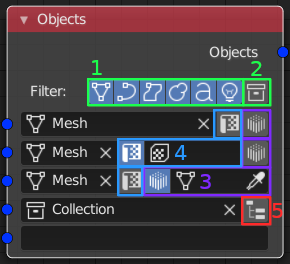
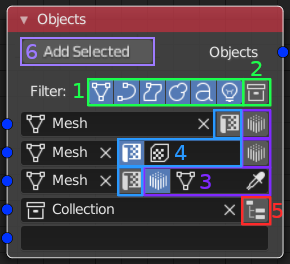
Updates for changes in v1.1

Changed region(s): [[0.0621, 0.1212, 0.5586, 0.303], [0.2483, 0.303, 0.2793, 0.3939]]

diff --git a/prefs.rst b/prefs.rst
@@ -5,58 +5,50 @@ Below are the current available preferences and their default settings:
 
 .. image:: /imgs/prefs.png
 
-1. **Messages to Text editor:** (*enabled by default*) causes messages and errors
-   produced by Bake Wrangler to be written to a text file named '*BakeWrangler*'
-   in the current project. When disabled these messages would only be visible in
-   the console.
-   |br|
+1. **Message Settings:**
+    * *Messages to Text Editor*: Causes messages and errors
+      produced by Bake Wrangler to be written to a text file named '*BakeWrangler*'
+      in the current project. When disabled these messages would only be visible in
+      the console. This also enabled the three options below.
+    * *Clear Old Messages*: Clears the text file prior to
+      each bake, so that messages are only relevant to the current/last process.
+    * *Open Text in new Window*: Will open a new window when
+      a bake process starts, displaying the text file (which is continually updated).
+      The size and location of the window will match the Bake Node Editor from which the
+      bake was started. The intention is to allow you to create your own work space with
+      the text file already open and so disable this popup.
+    * *Auto Close Text Window*: Will close the above popup automatically when a bake
+      completes sucessfully.
 
-2. **Clear Old Messages:** (*enabled by default*) clears the text file prior to
-   each bake, so that messages are only relevant to the current/last process.
-   |br|
-   
-3. **Open Text in new Window:** (*enabled by default*) will open a new window when
-   a bake process starts, displaying the text file (which is continually updated).
-   The size and location of the window will match the Bake Node Editor from which the
-   bake was started. (Note: The window must be closed manually and will not be reused)
-
-*The intention of the above preferences is to allow the user to create a work space
-with the text file already open in it (would disable the pop up window). Or to just
-see it when starting a bake (default). And of course to be able to completely disable
-the system if they prefer the console.*
-
-4. **Node Defaults:** Sets the default display state of some nodes. Here the initial
-   filter settings of the :doc:`Objects </objects>` node can be set. You can also have
+2. **Node Defaults:** Sets the default display state of some nodes. Here the initial
+   filter settings of the :doc:`Objects </objects>` node can be set along with the default
+   bake and output resolutions. You can also have
    nodes with collapsed advanced options start with them expanded instead. (Applies only
    to new nodes)
    |br|
    
-5. **Render Defaults:** Has settings related to the :doc:`Mesh </mesh>` and :doc:`Pass </pass>`
-   nodes, allowing you to configure their defaults. (Applies only to new nodes)
+3. **Render Defaults:** Has settings related to the :doc:`Mesh </mesh>` and :doc:`Pass </pass>`
+   nodes, allowing you to configure their defaults. The resolutions set here are used when
+   the global setting is overridden or if no global node is enabled in the scene.
+   (Applies only to new nodes)
+   * *Objects Always Visible*: Causes Bake Wrangler to ignore
+     the visibility settings of an object in Blender. When enabled all objects selected
+     as part of a bake will be made visible.
    |br|
    
-6. **Objects Always Visible:** (*disabled by default*) Causes Bake Wrangler to ignore
-   the visibility settings of an object in Blender. When enabled all objects selected
-   as part of a bake will be made visible.
-   |br|
-   
-7. **Output Defaults:** Has settings related to the :doc:`Output Image Path </outputimgpath>`
-   node, allowing you to configure the defaults for newly created nodes.
-   |br|
-   
-8. **Create Paths:** (*disabled by default*) Causes Bake Wrangler to attempt to create
-   the output path if it doesn't exist.
-   |br|
-   
-9. **Save each Pass:** (*disabled by default*) causes the output to be saved after each
-   bake pass instead of after all contributing passes. This will reduce performance in
-   some cases (especially with Alpha being written every time), but will preserve pass
-   data in the event of a later failure or memory shortage. Use it if some pass data
-   seems to be getting lost or if you have very long pass bake times so as not to lose
-   progress.
+4. **Output Defaults:** Has settings related to the :doc:`Output Image Path </outputimgpath>`
+   node, allowing you to configure the defaults for newly created nodes. Again the resolutions
+   set here only apply when the global setting is overridden or no active global node is found.
+   * *Create Paths*: Causes Bake Wrangler to attempt to create the output path if it doesn't exist.
+   * *Save each Pass*: Causes the output to be saved after each
+     bake pass instead of after all contributing passes. This will reduce performance in
+     some cases (especially with Alpha being written every time), but will preserve pass
+     data in the event of a later failure or memory shortage. Use it if some pass data
+     seems to be getting lost or if you have very long pass bake times so as not to lose
+     progress.
    |br|
 
-10. **Debug** (*disabled by default*) adds more detailed messages to each process and
+5. **Debug:** Adds more detailed messages to each process and
    if a bake fails with an error condition a complete process log will be opened in a new
    window. **Please post this log when reporting a bug.**
    

diff --git a/mesh.rst b/mesh.rst
@@ -30,21 +30,47 @@ objects in the .blend file.
    the *Target* object.
    |br|
    
-4. **Target:** May be a single 'MESH' type object or taken from a :doc:`objects`
+4. **Auto Cage:** This will create a cage for every target object that doesn't
+   have it's own cage specified. When enabled an expansion and smoothing angle
+   value will appear. The expansion value determines how far out (or in with a
+   negative value) the cage will be created from the original object. The smoothing
+   angle is the angle below which normals will be smoothed. Complicated objects
+   may not result in a good cage and small values for expansion should be used.
+   |br|
+   
+5. **Material Override:** This will replace all materials on your objects with
+   the selected material during baking. Use this to either bake alternative
+   materials without modifying your scene or to bake your own material based
+   passes (such as OSL shaders).
+   |br|
+   
+6. **Bake Modifiers to Unmodified:** This can be used to bake the effect of a
+   modifier onto the base object. Mainly this is for convenience and achieves
+   the same result as duplicating an object, stripping the modifiers you wanted
+   to bake and then baking the original object onto the stripped version. This
+   can be useful to bake a bevel modifier for example. It is also possible to
+   exclude modifiers by disabling their viewport visibility (this behavior can
+   be inverted in the preferences). If for example you had a mirror modifier
+   followed by a bevel you would hide the mirror (it will now get applied to
+   both objects before baking) and leave the bevel visible so that only the
+   difference created by the bevel would be baked.
+   |br|
+   
+7. **Target:** May be a single 'MESH' type object or taken from a :doc:`objects`
    node. When a list of objects is used, only 'MESH' type objects will be
    considered with other types ignored. Each *Target* will be baked in its
    own pass but shares the *Mesh* nodes settings. At least one valid object
    must be selected for a bake to valid.
    |br|
    
-5. **Source:** Optional field that can take a single object of most types or
+8. **Source:** Optional field that can take a single object of most types or
    a list of objects from a :doc:`objects` node. All of *Source* objects will
    have their surface data projected onto to the *Target(s)* (if sensible for
    the selected bake pass). Normally a ray distance greater than zero is needed
    to capture everything correctly.
    |br|
    
-6. **Scene:** Optional field that can take a single collection or a list of
+9. **Scene:** Optional field that can take a single collection or a list of
    objects from a :doc:`objects` node. This is the only input that will consider
    lights as valid objects. This input is used to set up lighting, shadow
    casting objects and anything that indirectly influences the pass but isn't

diff --git a/pass.rst b/pass.rst
@@ -17,7 +17,7 @@ Outputs can be connected in any combination to any number of
    how this works.
    |br|
    
-2. **Pass:** Drop down list to select bake *pass*. Some passes may
+2. **Group & Pass:** Drop down list to select bake *pass*. Some passes may
    have additional options which will appear below when selected.
    Tool-tips are used to explain their functions. Additionally some
    passes require a *Principled BDSF* based material on the objects,
@@ -31,20 +31,13 @@ Outputs can be connected in any combination to any number of
    one sample and increase if the result isn't good enough.
    |br|
    
-4. **X and Y Resolution:** Sets the width and height of the bake in pixels.
-   This is **not** the final size of the output, just the size of this bake
-   *pass*. This is intended to facilitate a couple of scenarios, the most
-   common being *down sampling* into the final image. This is a useful
-   technique, especially with normal maps where you bake at a higher resolution
-   to the final image. The resultant *down sampling* creates much smoother
-   transitions between areas than in the original map. Another use is when
-   multiple objects share a UV Map, but have different levels of detail,
-   render time can be saved by baking the lower detail objects at a lower
-   resolution.
+
+4. **Advanced Settings:** Collapses or expands the more advanced or less
+   used settings to reduce clutter and node footprint.
    |br|
 
-5. **Advanced Settings:** Collapses or expands the more advanced or less
-   used settings to reduce clutter and node footprint.
+5. **Local X and Y Resolution:** These are used only to override any :doc:`globalres`
+   nodes or when no global values are set or active.
    |br|
    
 6. **Device:** Simple choice between *CPU* or *GPU* as rendering device.

diff --git a/index.rst b/index.rst
@@ -13,21 +13,17 @@ Current Features:
     * Masking feature allows layering of bakes and combining with external processes
     * Objects are isolated within a pass preventing unwanted interference
     * All standard image formats, color-spaces and bit depths are available
-    * Additional bake passes for better PBR and external engine support:
-    
-      * Albedo
-      * Smoothness
-      * Metallic
-      * Specular
-      * Alpha
-      * Curvature
-      * Cavity
-      * More planned plus user feedback
+    * Full set of 23 PBR passes (Albedo, Metallic, Smoothness, etc)
+    * Additional 11 passes not found in blender (Bevels, Cavity, Curves, Height, etc)
+    * Automatic cage generation options when baking down from other objects
+    * Material override system to bake different materials without changing your objects
+    * Modifier baking to unmodified base objects
+    * Still more planned...
 
 The Future:
     There are three main areas of development planned for future releases:
     
-    * **User Interface**
+    * **User Interface (Current Focus)**
     
       * Productivity features for large/complex bakes to allow
         grouping of values so they can be modified from one location and
@@ -39,11 +35,6 @@ The Future:
         not fit optimally within the current systems. Requires more user
         feedback.
           
-    * **Bake Passes** - Many additional passes are very simple to add at this
-      point, though some remain technically challenging. Adding passes will
-      be driven by user feedback and demand.
-      |br|
-    
     * **Image Manipulation** - While not currently implemented, it would be
       possible to combine passes using a maths function. Similarly some post
       processing could be done on the images. There are some performance

diff --git a/outputimgpath.rst b/outputimgpath.rst
@@ -39,16 +39,12 @@ for linking to one or more :doc:`batchbake` nodes if desired.
    'img.myext' would not be changed*).
    |br|
    
-5. **X and Y Resolution:** Set the width and height in pixels of the final output
-   image. Using a lower value than the bake pass allows for down sampling. Note
-   that for performance reasons most real time rendering engines will expect your
-   texture maps to be a power of two (*eg. 512, 1024, 2048, 4096, etc*). Also
-   consider that you can always reduce the detail/size of a higher resolution map,
-   but it's not really possible to increse the detail in a lower resolution map.
-   |br|
-   
-6. **Advanced Settings:** Collapses or expands the more advanced or less
+5. **Advanced Settings:** Collapses or expands the more advanced or less
    used settings to reduce clutter and node footprint.
+   |br|
+
+6. **Local X and Y Resolution:** These are used only to override any :doc:`globalres`
+   nodes or when no global values are set or active.
    |br|
    
 7. **Clear Image:** When enabled and if the target image already exists, it

diff --git a/quickstart.rst b/quickstart.rst
@@ -27,9 +27,9 @@ the :doc:`Examples </examples>`.
    targets).
    |br|
 
-3. **Pass:** selects the type of data you want to bake. Some passes will display additional
-   options below them when selected. In the example picture the '*Normal*' pass has the extra
-   choices of normal space and which direction is mapped to the three color channels.
+3. **Group & Pass:** selects the type of data you want to bake. Some passes will display additional
+   options below them when selected. In the example picture the '*Albedo*' pass in the '*PBR*' group
+   has no additional options.
    |br|
 
 4. **Image Path:** selects where the baked image will be saved. Relative locations are

diff --git a/nodes.rst b/nodes.rst
@@ -5,6 +5,7 @@ Detailed information on each node in the order they appear in the '*Add*' menu
 *(Note: All node settings have mouse over tool-tips with additional info)*:
 
 ===================== ================================================
+:doc:`/globalres`     Quickly sets global resolutions
 :doc:`/objects`       Container for groups of objects (used for input)
 :doc:`/mesh`          Settings of and relationship between inputs
 :doc:`/pass`          Bake pass configuration
@@ -16,6 +17,7 @@ Detailed information on each node in the order they appear in the '*Add*' menu
     :hidden:
     :maxdepth: 1
     
+    /globalres
     /objects
     /mesh
     /pass

diff --git a/objects.rst b/objects.rst
@@ -42,6 +42,11 @@ which case it will be evaluated multiple times.*
 5. **Recursive Selection:** When the selected item is a collection this option will
    appear. Enabling it will cause any and all sub collections of the primary selection
    to also be included.
+   |br|
+   
+6. **Add Selected:** Clicking this button will add all currently selected objects to the
+   node, respecting the current filter. Duplicate items will not be added unless
+   SHIFT is held while clicking. It is not possible to add collections in this way.
 
 .. |br| raw:: html
 

diff --git a/globalres.rst b/globalres.rst
@@ -1,0 +1,11 @@
+Resolutions
+===========
+
+The *Resolutions* node allows you to globally set your bake and output
+resolutions rather than set each pass individually. Only one such node
+can be set *Active* at a time, but more than one can be present in a
+tree. Individual passes and outputs can have a local overriding value
+set if desired to ignore the global value. The local settings are also
+used if no global node is present or active.
+
+.. image:: /imgs/globalres.png
